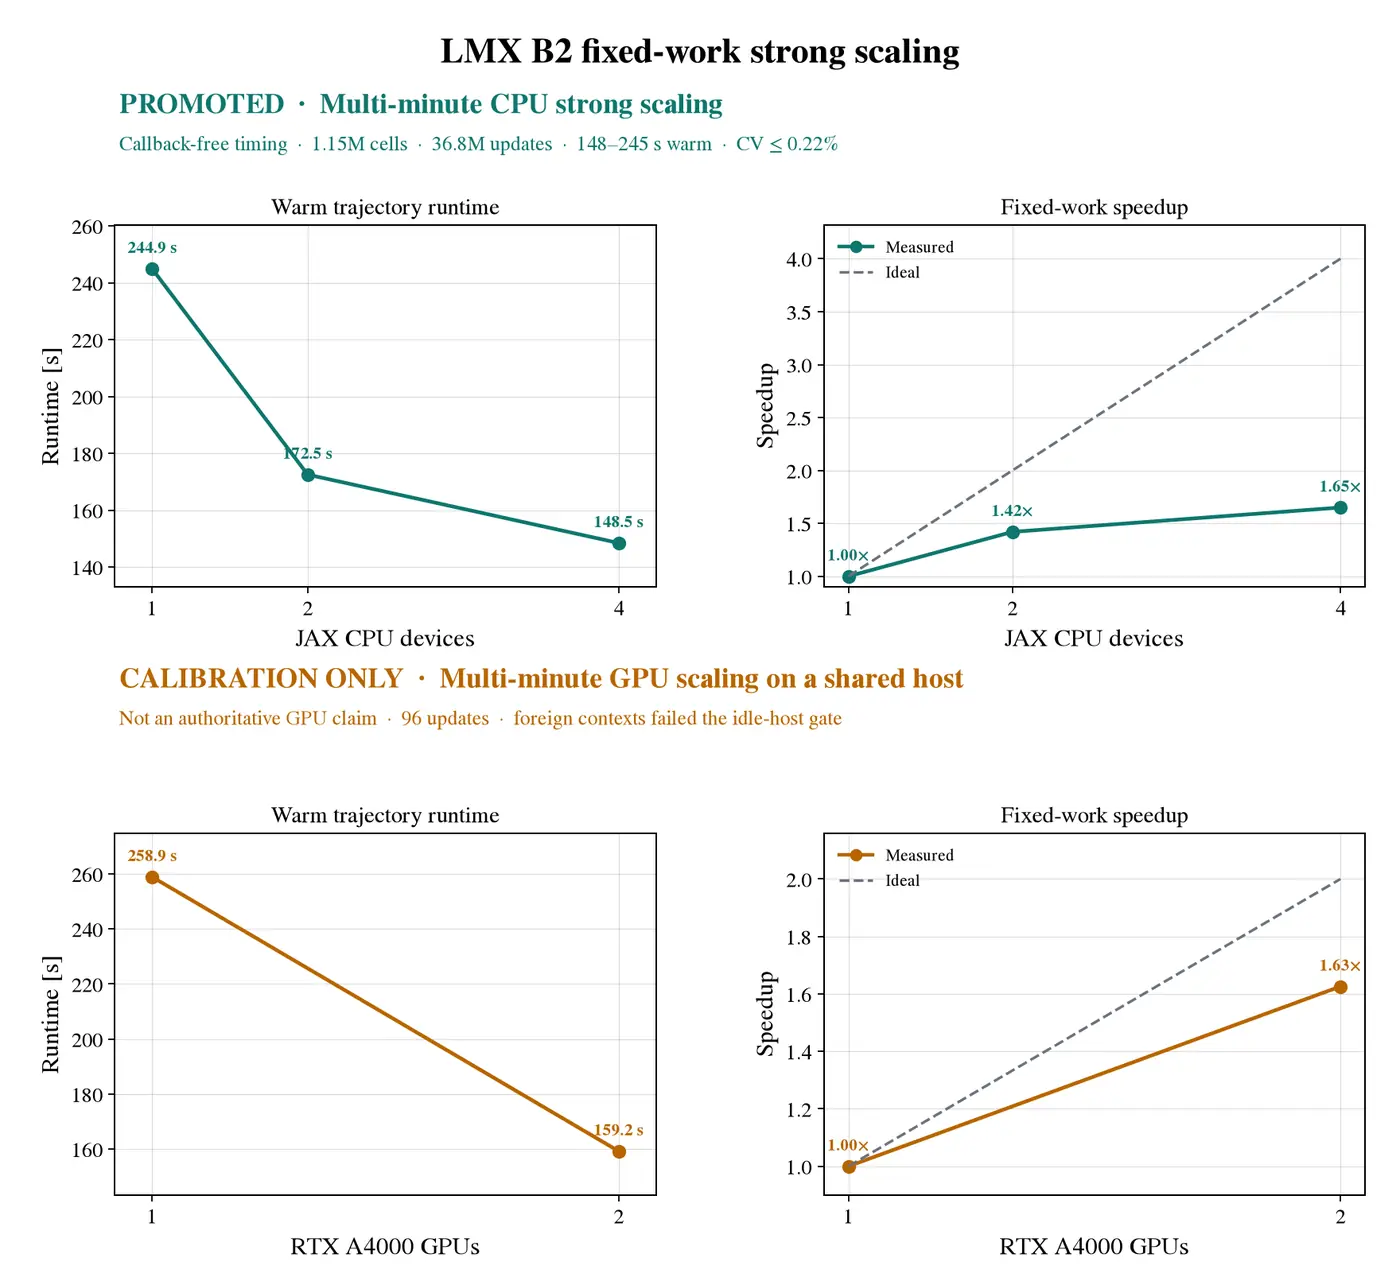
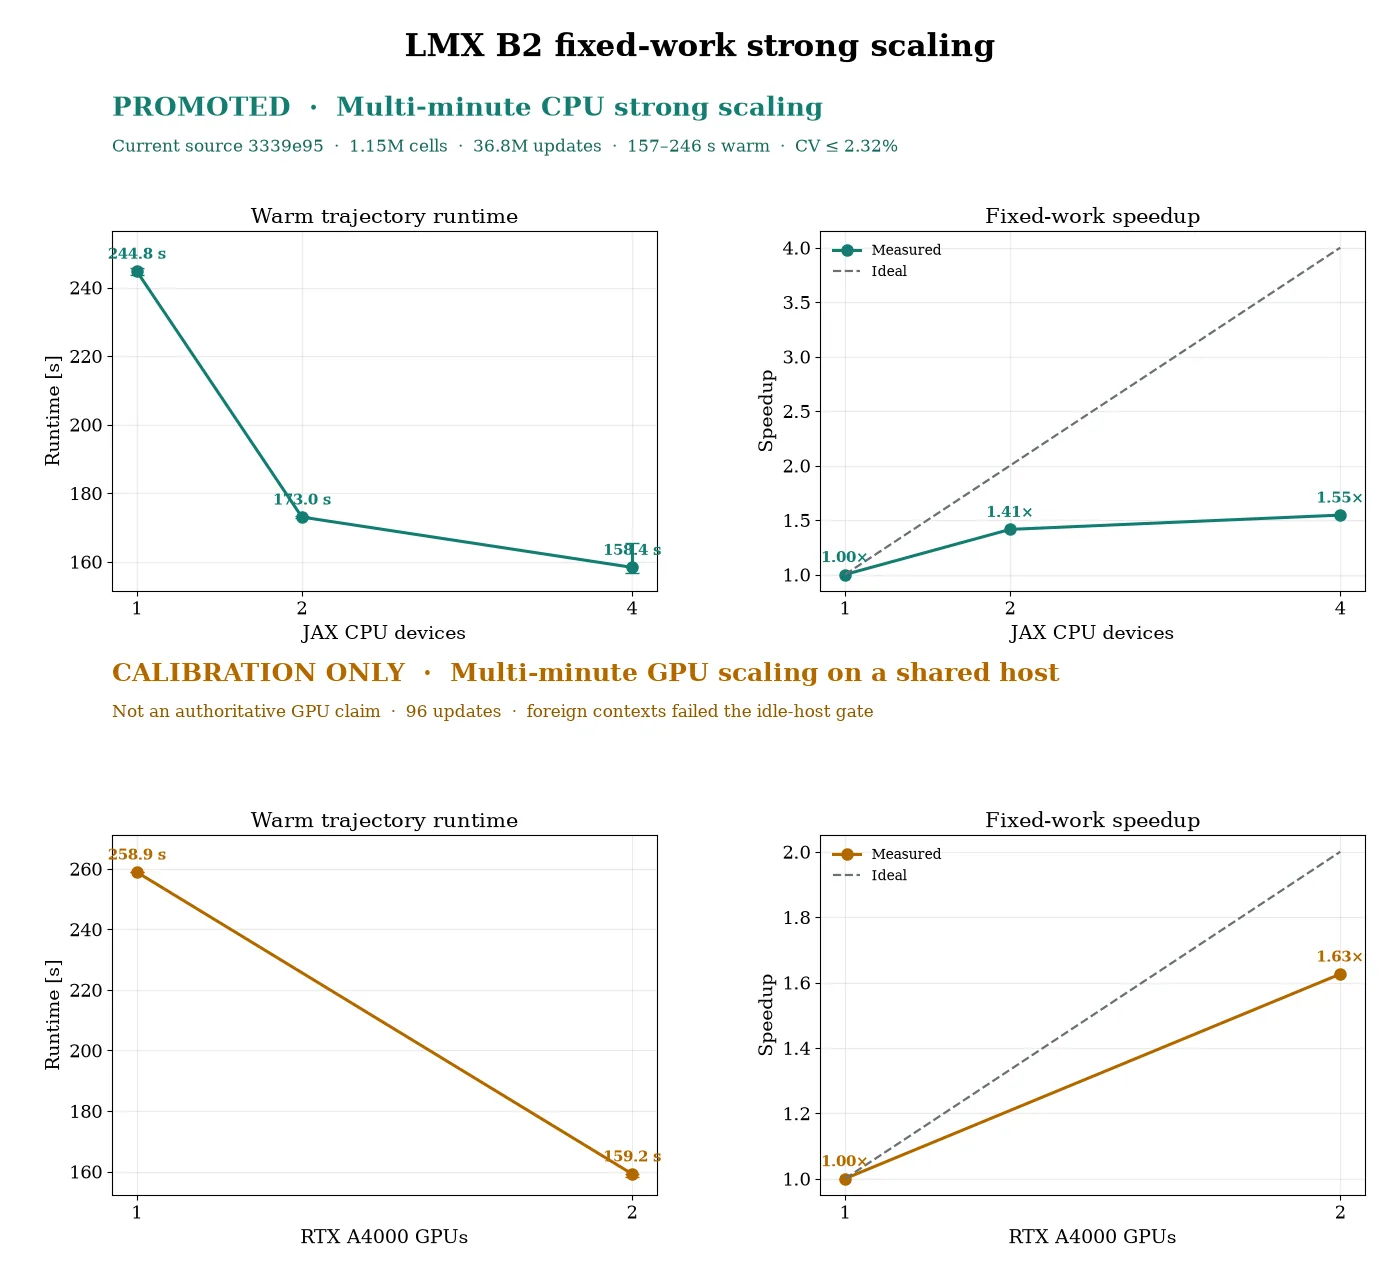
Promote current-source CPU scaling

diff --git a/docs/performance.md b/docs/performance.md
@@ -18,7 +18,7 @@ calibration until idle-host admission passes.
 |---|---|---|---|
 | portable test gate | Apple M4, six workers | 867 pass, 8 skip, 95.41% combined line/branch coverage, 117.7 s | 39% of the five-minute target and 20% of the ten-minute budget |
 | B2 CPU smoke | Apple M4, `8 x 7 x 7`, 1/2/4 forced CPU devices | current-source pressure observable agrees within `5.93e-15`; closure and exact restart pass | production sharding correctness; too small for scaling claims |
-| B2 monitored CPU scaling | `256 x 67 x 67`, 32 updates, 2/4/8 guest CPUs, 1/2/4 JAX devices, three warm trajectories per topology | 244.923/172.521/148.460 s; 1.420x/1.650x; CV at most 0.219% | accepted CPU-allocation scaling at source `8f9c189`; observer exclusion, exact restart, numerics, placement, memory, and continuous/postflight monitoring pass |
+| B2 monitored CPU scaling | `256 x 67 x 67`, 32 updates, 2/4/8 guest CPUs, 1/2/4 JAX devices, three warm trajectories per topology | 244.763/173.033/158.354 s; 1.415x/1.546x; CV at most 2.318% | accepted CPU-allocation scaling at source `3339e95`; observer exclusion, exact restart, numerics, placement, memory, and continuous/postflight monitoring pass |
 | B2 multi-minute GPU calibration | `256 x 67 x 67`, 1/2 RTX A4000, 96 updates, three warm trajectories per topology | 258.913/159.234 s; 1.626x; peak device memory 2.50 GB vs 1.41/1.31 GB; CV below 0.29% | recorded source `78858f5`; numerical/duration gates pass, but persistent foreign contexts block an authoritative timing claim |
 | B2 pseudo-time gate | Apple M4, corrected warm `7 x 7 x 7`, canonical `Ha=2900`, `N=540` equations | 64x/32x/16x map-rate spread 0.0768%; raw updates halve; exact restart | 64x refrozen; versioned stopping threshold open |
 | B2 physical-residual probe | Apple M4, `7 x 7 x 7` | residual 0.03870 at step 90; omitted reconstruction force is 0.0880 at step 4 | diagnostic has a plausible coarse split floor; never a stopping gate |
@@ -189,9 +189,9 @@ solve only 0.85% (`0.7437` to `0.7374` seconds). That fast path is rejected
 before the large rung. These results remain forced-device sharding evidence,
 not physical-core strong scaling.
 
-The accepted 32-update evaluation at source `8f9c189` gives
-244.923/172.521/148.460 s medians and 1.420x/1.650x speedups; peak RSS is
-4.42/4.18/4.48 GiB and the maximum warm CV is 0.219%. Timed trajectories are
+The accepted 32-update evaluation at source `3339e95` gives
+244.763/173.033/158.354 s medians and 1.415x/1.546x speedups; peak RSS is
+4.15/4.33/4.48 GiB and the maximum warm CV is 2.318%. Timed trajectories are
 callback-free, and the untimed exact-restart audit plus continuous/postflight
 monitoring pass. This establishes Docker CPU-allocation scaling, not exact Apple
 M4 P/E-core scaling.

diff --git a/plan.md b/plan.md
@@ -8,8 +8,8 @@ coarse B2 trajectory passes linear, conservation, restart, and placement gates
 but misses steady acceptance; no continuation is authorized.
 
 The accepted callback-free `256 x 67 x 67`, 32-update CPU ladder at source
-`8f9c189` gives 244.923/172.521/148.460-second medians, 1.420x/1.650x
-two/four-device speedups, and 0.219% maximum CV. Observer exclusion, exact
+`3339e95` gives 244.763/173.033/158.354-second medians, 1.415x/1.546x
+two/four-device speedups, and 2.318% maximum CV. Observer exclusion, exact
 restart, numerics, placement, memory, and continuous/postflight monitoring pass.
 This establishes Docker CPU-allocation scaling; exact M4 P/E-core mapping and
 steady-state evidence remain open. The multi-minute 1.626x two-A4000
@@ -133,12 +133,12 @@ shared without removing cases or assertions.
 | Surface | Current | Active ratchet | CI hard ceiling |
 |---|---:|---:|---:|
 | package modules | 35 | no new module | 35 |
-| package lines | 34,246 | stay below 34,247 | 35,100 |
+| package lines | 34,248 | stay below 34,249 | 35,100 |
 | maintained-core lines | 7,869 | stay below 7,870 | 8,000 |
-| test files / lines | 30 / 21,073 | no new file; next test change must reduce lines | 31 / 21,100 |
+| test files / lines | 30 / 21,076 | no new file; next test change must reduce lines | 31 / 21,100 |
 | maintenance scripts | 13 | no new script without retiring an owner | 13 |
 | tracked files | 186 | no new file without retiring another owner | 187 |
-| tracked checkout | 4,579,750 bytes | stay below 4,579,751 without hiding direct visuals | 4,718,592 bytes |
+| tracked checkout | 4,592,161 bytes | stay below 4,592,162 without hiding direct visuals | 4,718,592 bytes |
 
 These ratchets come from ownership deletion and shared helpers, never unreadable
 formatting or arbitrary test merging. Recent moves delete 190 builder lines and
@@ -203,8 +203,8 @@ use focused gates; seconds-scale results remain topology/debug evidence.
 
 Rejected earlier ladders used static preflight, retained a timed checkpoint, or
 failed stability, swapout, and duration gates. The authoritative callback-free
-ladder at source `8f9c189` records 244.923/172.521/148.460-second medians,
-1.420x/1.650x speedups, 4.42/4.18/4.48 GiB peak RSS, 0.219% maximum CV, exact
+ladder at source `3339e95` records 244.763/173.033/158.354-second medians,
+1.415x/1.546x speedups, 4.15/4.33/4.48 GiB peak RSS, 2.318% maximum CV, exact
 restart, and clean continuous/postflight traces. The sustained CPU launcher
 records one-second host samples through the worker plus a 15-second postflight
 and binds the ignored JSONL digest to the source fingerprint; any probe,

diff --git a/docs/media.md b/docs/media.md
@@ -39,7 +39,7 @@ serve one claim family.
 
 ## Tracked web set
 
-Twenty files in `docs/_static/` total 1,253,324 bytes. The `showcase` section of
+Twenty files in `docs/_static/` total 1,265,096 bytes. The `showcase` section of
 [`release-assets.json`](release-assets.json) records every byte count and
 SHA-256; `python scripts/manage_release_assets.py --check` verifies it locally.
 
@@ -54,7 +54,7 @@ SHA-256; `python scripts/manage_release_assets.py --check` verifies it locally.
 | Q2D external diagnostics | 87,350 | 1,000 × 1,509 WebP | released sources `5bc14089...` and `11f452c1...`; external parity explicitly open |
 | manufactured operators | 41,120 | 1,600 × 624 WebP | bounded example; orders 2.00/1.94/1.91; `test_example_runner.py` / `test_plotting.py` |
 | Samper Benchmark A | 74,438 | 1,405 × 913 WebP | accepted aggregate `9f94ea15...`; eight rows; JSON-only writer/test |
-| B2 schema-6 scaling evidence | 61,268 | 1,400 × 1,285 WebP | promoted callback-free multi-minute CPU scaling plus calibration-only multi-minute shared-host GPU scaling; authoritative GPU idle-host claim remains open |
+| B2 schema-6 scaling evidence | 73,040 | 1,400 × 1,285 WebP | current-source callback-free multi-minute CPU scaling plus calibration-only multi-minute shared-host GPU scaling; authoritative GPU idle-host claim remains open |
 | Hunt/Shercliff startup | 75,998 | 800 × 260 animated WebP, 7 s | 35 physical samples from current-source Hunt `934c9aea...` and Shercliff `3188bd21...` GIFs; no interpolation |
 | checked sensitivities | 32,612 | compressed WebP | released derivative `f2add9fe...` |
 | geometry gallery | 61,600 | compressed WebP | released derivative `e844f069...` |

diff --git a/docs/developer_guide.md b/docs/developer_guide.md
@@ -17,11 +17,11 @@ exports and the curated catalog contains 11 workflows. Lightweight import is
 about 19 ms on the audited development machine. Advanced APIs import from their
 owning submodules; see the [migration guide](migration.md).
 
-The current tracked checkout is 4,579,089 bytes, below its 4.5 MiB hard cap.
+The current tracked checkout is 4,592,161 bytes, below its 4.5 MiB hard cap.
 Sixty-five generated files larger than 128 KiB were bundled in the versioned release
 indexed by [`release-assets.json`](release-assets.json)
 and removed only after a fresh download passed archive membership, size, and
-SHA-256 verification. Twenty compressed web derivatives (1,253,324 bytes total)
+SHA-256 verification. Twenty compressed web derivatives (1,265,096 bytes total)
 remain in `docs/_static/` for direct README and documentation display; full-resolution media and
 field bundles remain release assets and never enter the wheel.
 

diff --git a/docs/fringing.md b/docs/fringing.md
@@ -133,8 +133,8 @@ observables and exact restart on one, two, and four CPU devices. The
 pre-schema-6 replacement passed exact 1/2-GPU repeat/restart, conservation,
 placement, and equivalence gates. Current schema-6 topology, placement, and
 exact serialized replay pass on one and two GPUs. The callback-free
-`256 x 67 x 67`, 32-update CPU ladder has 244.923/172.521/148.460-second
-medians and 1.420x/1.650x speedups on one/two/four devices; exact restart,
+`256 x 67 x 67`, 32-update CPU ladder has 244.763/173.033/158.354-second
+medians and 1.415x/1.546x speedups on one/two/four devices; exact restart,
 placement, memory, and continuous monitoring pass. This establishes Docker
 CPU-allocation scaling, not steady-production scaling or exact M4 core mapping.
 The current 96-update `256 x 67 x 67` GPU ladder has multi-minute warm medians

diff --git a/README.md b/README.md
@@ -137,8 +137,8 @@ validation remain open.
 ![Multi-minute CPU scaling and GPU calibration](docs/_static/strong_scaling.webp)
 
 The callback-free `256 × 67 × 67` CPU ladder (32 updates, three warm/rung) takes
-244.923/172.521/148.460 s, reaching **1.420×/1.650×** on 2/4 JAX devices with
-0.219% maximum CV. Observer exclusion, exact restart, and continuous monitoring
+244.763/173.033/158.354 s, reaching **1.415×/1.546×** on 2/4 JAX devices with
+2.318% maximum CV. Observer exclusion, exact restart, and continuous monitoring
 pass. A multi-minute 1/2-GPU ladder reaches 1.626× on two A4000s, but foreign
 contexts keep that result a shared-host calibration.
 [Protocol and results →](https://lmx.readthedocs.io/en/latest/performance.html)
